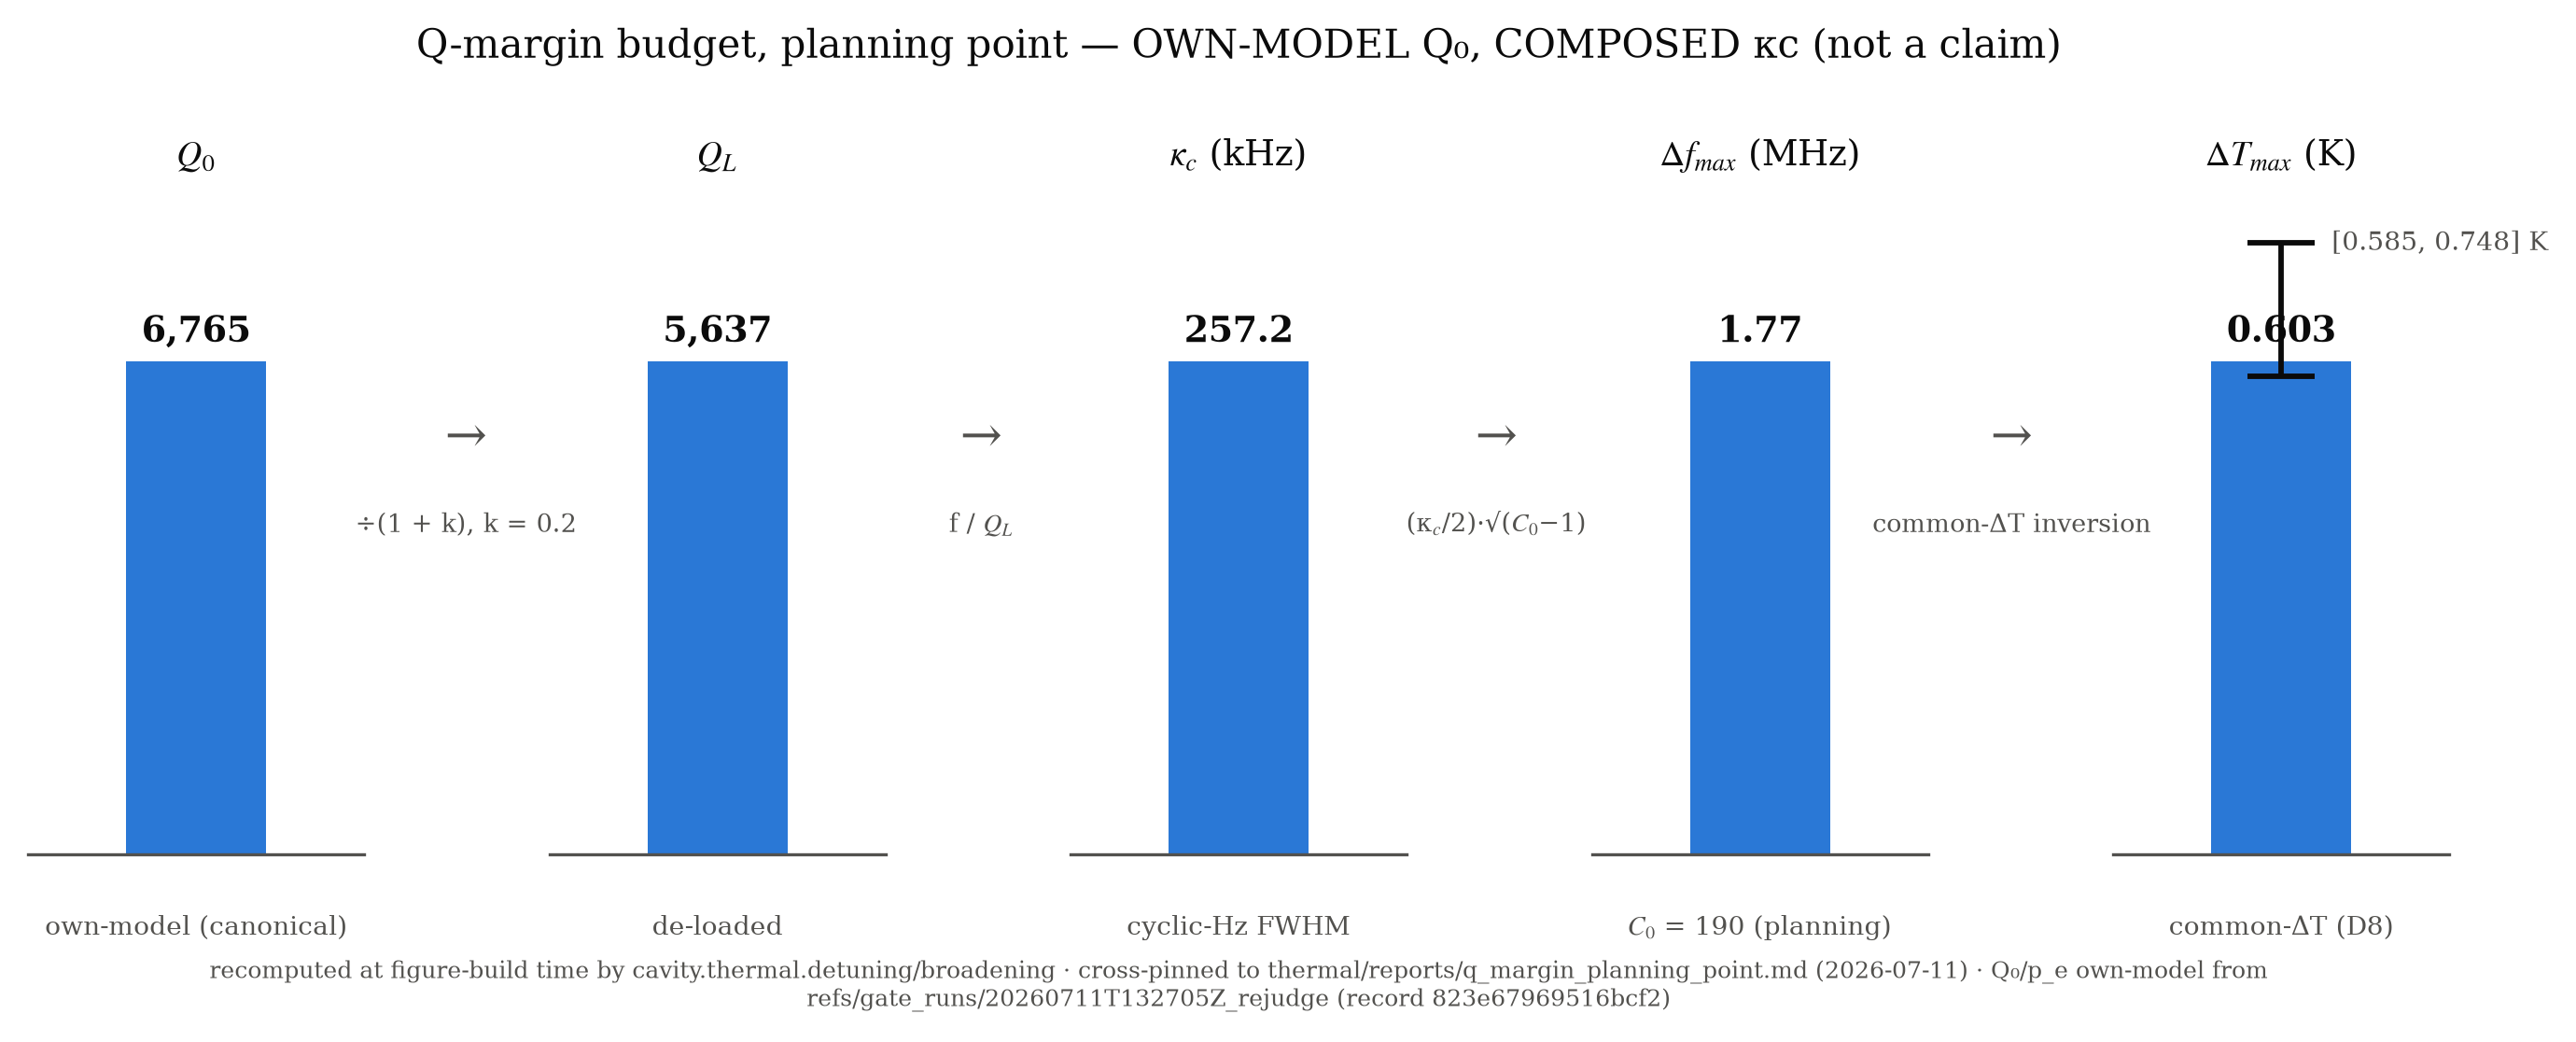
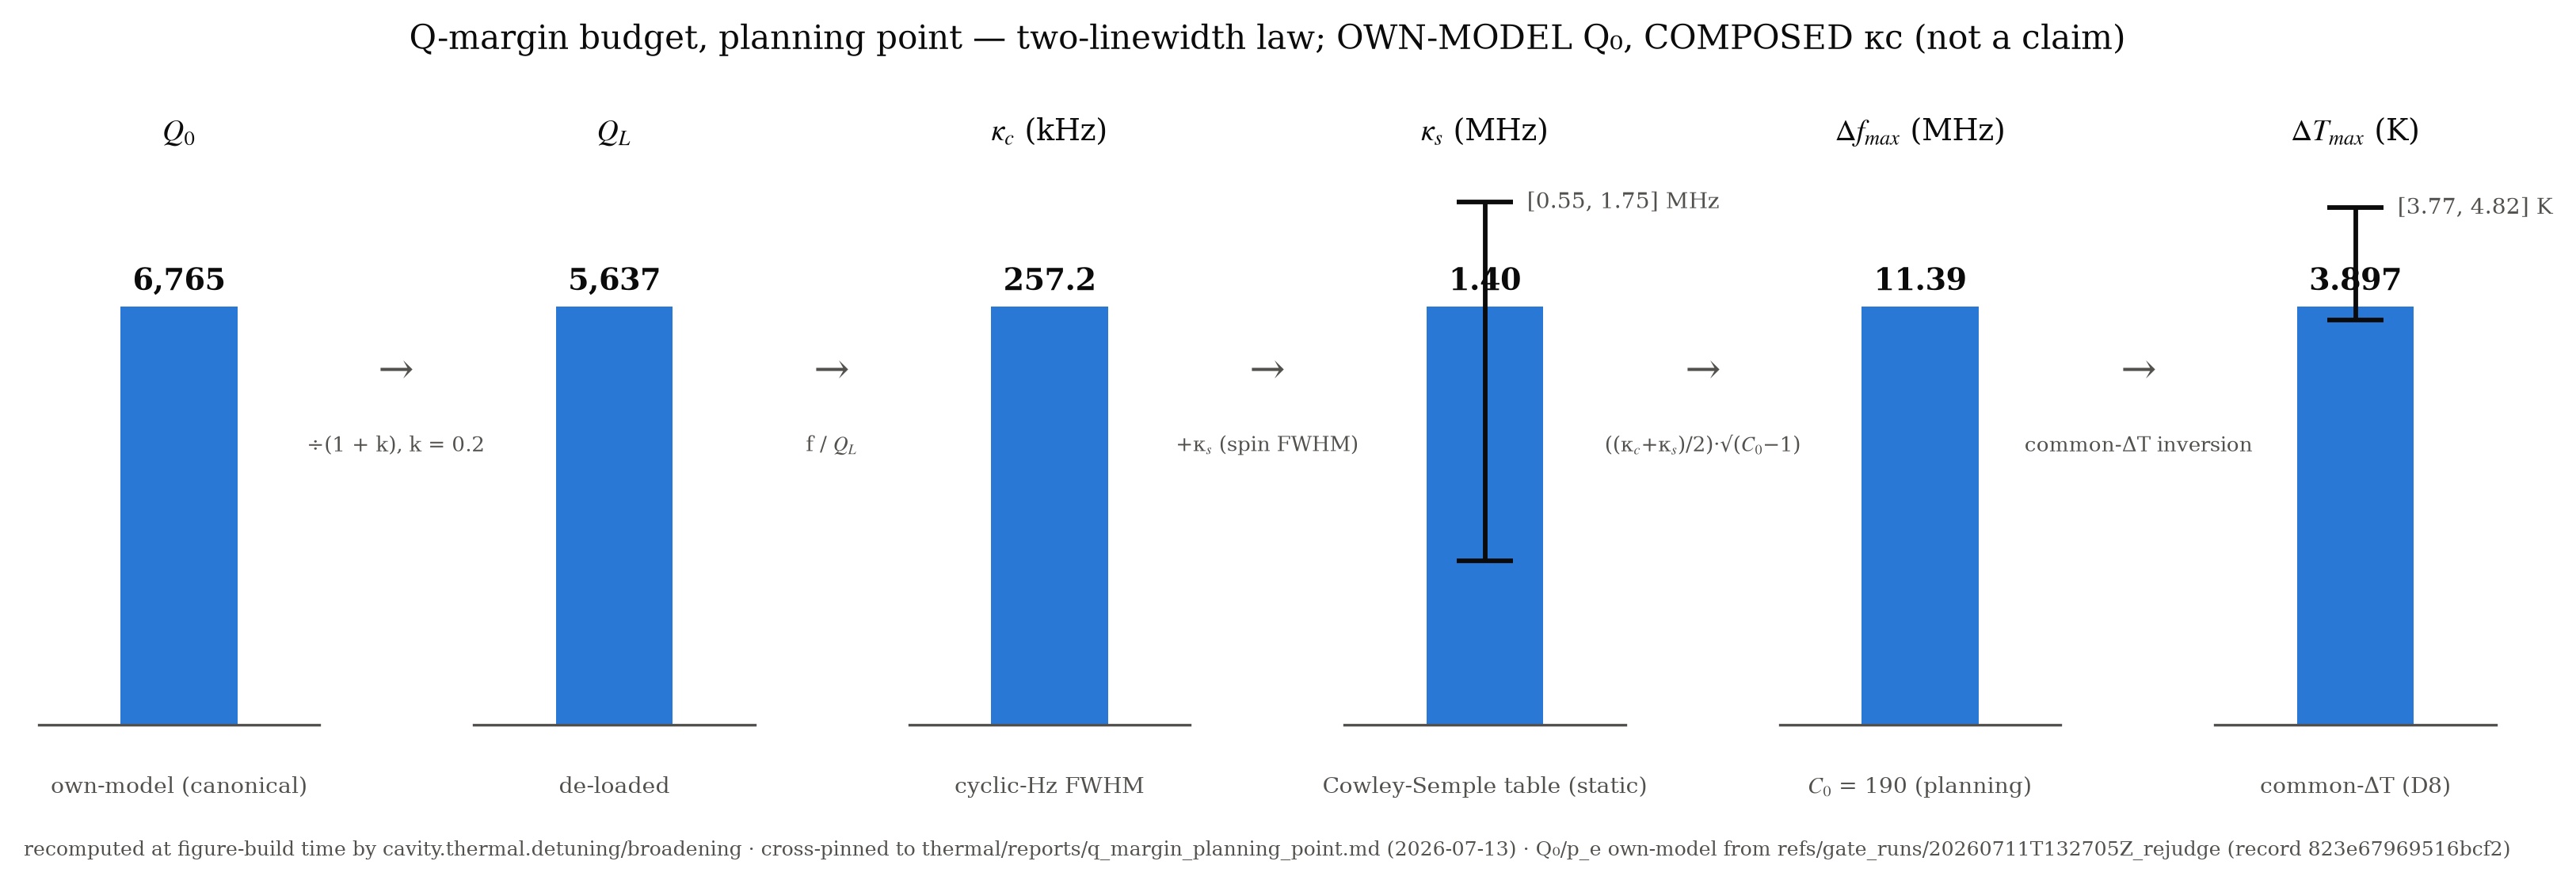
Regenerate margin report (two-linewidth planning point: 11.39 MHz / 3.90 K), mint turnover map, re-render F5

diff --git a/thermal/reports/q_margin_turnover.md b/thermal/reports/q_margin_turnover.md
@@ -1,0 +1,60 @@
+# SPEC §7.T4 — Q-margin turnover map (2026-07-13)
+
+**Status: deterministic two-linewidth turnover map — the new §7.T4 object replacing the bare -1/2 exponent.** Regenerate with `python -m cavity.thermal.report_turnover`.
+
+## Parameters
+
+- f = 1.45 GHz (`TARGET.f_design_hz`).
+- Q0 = 6764.5852 (OWN-MODEL canonical branch, re-based §5a record `refs/gate_runs/20260711T132705Z_rejudge/`, record hash `823e67969516bcf2`).
+- Q_L = Q0/(1 + k) = 5637.1544.
+- kappa_c = f/Q_L = 257.222 kHz (CYCLIC-Hz FWHM).
+- kappa_s = 1.400 MHz (`KAPPA_S`, CYCLIC-Hz FWHM; band [0.550, 1.750] MHz).
+- c = PLANNING_C0/Q_L = 0.033704949, calibrated so C0 = 190 at the planning Q_L.
+
+## Derivation summary (2026-07-13)
+
+- Eigenvalue threshold: C0 = 1 + 4*Delta^2/(kappa_c+kappa_s)^2.
+- Pulled frequency: omega = (kappa_c*omega_s + kappa_s*omega_c)/(kappa_c+kappa_s).
+- Threshold margin: Delta_f_max = ((kappa_c+kappa_s)/2)*sqrt(C0-1).
+- Fixed-G, fixed-kappa_s exponent under kappa_c = f/Q_L and C0 = c*Q_L: E = -kappa_c/(kappa_c+kappa_s) + C0/(2*(C0-1)).
+- Turnover: Q_L^2 - (f/kappa_s)*Q_L + 2*(f/kappa_s)/c = 0; real roots exist iff C0 evaluated at kappa_c = kappa_s is >= 8.
+
+## Q_L map
+
+| Q_L | kappa_c/kappa_s | C0 = c*Q_L | Delta_f_max (MHz) | E |
+|---:|---:|---:|---:|---:|
+| 32.0000 | 32.366071 | 1.078558 | 6.5464 | +5.8947 |
+| 56.0000 | 18.494898 | 1.887477 | 12.8558 | +0.1147 |
+| 100.0000 | 10.357143 | 3.370495 | 12.2401 | -0.2010 |
+| 178.0000 | 5.818620 | 5.999481 | 10.6723 | -0.2533 |
+| 316.0000 | 3.277577 | 10.650764 | 9.3020 | -0.2144 |
+| 562.0000 | 1.842908 | 18.942181 | 8.4294 | -0.1204 |
+| 1000.0000 | 1.035714 | 33.704949 | 8.1493 | +0.0065 |
+| 1778.0000 | 0.582516 | 59.927399 | 8.5036 | +0.1404 |
+| 3162.0000 | 0.327550 | 106.575049 | 9.5484 | +0.2580 |
+| 5637.1544 | 0.183730 | 190.000000 | 11.3915 | +0.3474 |
+| 10000.0000 | 0.103571 | 337.049489 | 14.1612 | +0.4076 |
+| 31623.0000 | 0.032752 | 1065.851601 | 23.5906 | +0.4688 |
+| 100000.0000 | 0.010357 | 3370.494895 | 41.0540 | +0.4899 |
+| 1000000.0000 | 0.001036 | 33704.948946 | 128.6435 | +0.4990 |
+
+Rows with C0 <= 1 are below threshold and print an em-dash for Delta_f_max and E.
+
+## Crossings
+
+- Closed-form roots (4 s.f.): Q_- = 63.19, Q_+ = 972.5.
+- Large-C0 reference: f/kappa_s = 1036.
+- Existence condition: C0 at kappa_c = kappa_s is 34.9087 >= 8, so both roots are real.
+- Operating point: Q_L = 5637.1544, E = +0.3474, kappa_c/kappa_s = 0.184; far side of the turnover - the committed -1/2 scaling's regime is kappa_c >> kappa_s.
+
+## kappa_s-band sensitivity
+
+- kappa_s = 0.550 MHz: Q_- = 23.52, Q_+ = 2613 (fixed-G rescaling of c).
+- kappa_s = 1.750 MHz: Q_- = 82.36, Q_+ = 746.2 (fixed-G rescaling of c).
+
+## Status notes
+
+- SPEC §7.T4 rung: the Q-margin QUESTION is supervisor-endorsed (Oxborrow-verbal 2026-07-06); the RESULT is unratified — these are budget maps and a planning point, not the joint C0/kappa_c DOF derivation (Layer A; SPEC §11 item 9).
+- FIXED-G vs C0-IMPORT: this map varies Q_L at fixed G and kappa_s (C0 = c*Q_L); the planning-point report imports C0 = 190 directly. The joint C0/kappa_c/kappa_s dependence on the geometry DOFs is Layer A (SPEC section 11 item 9) - not derived here.
+- SIGN-INVERSION FINDING (derived 2026-07-13, UNRATIFIED - needs supervisor ratification before headline use): at the operating point the Q-margin exponent is ~ +0.35, not -1/2; the committed 1/sqrt(Q) law is the kappa_s -> 0 limit.
+- KAPPA_S is the static, T-independent planning branch; thermal kappa_s(Delta_T) feedback remains outside this turnover map.

diff --git a/thermal/reports/q_margin_planning_point.md b/thermal/reports/q_margin_planning_point.md
@@ -1,11 +1,14 @@
-# SPEC §7.T4 — Q-margin planning point (2026-07-11)
+# SPEC §7.T4 — Q-margin planning point (2026-07-13)
 
 **Status: planning-point evaluation of the §7.T4 budget maps (`cavity.thermal.detuning`) — NOT a claim.** Regenerate with `python -m cavity.thermal.report_margin`; pinned byte-for-byte in `tests/test_thermal_detuning.py`.
 
 ## Status notes
 
 - SPEC §7.T4 rung: the Q-margin QUESTION is supervisor-endorsed (Oxborrow-verbal 2026-07-06); the RESULT is unratified — these are budget maps and a planning point, not the joint C0/kappa_c DOF derivation (Layer A; SPEC §11 item 9).
-- OWN-MODEL Q0, COMPOSED kappa_c (re-based 2026-07-11, superseding the cross-build composite): Q0 = 6764.59 is the OWN-MODEL canonical-branch walls-on finest value from the re-based §5a record (`refs/gate_runs/20260711T132705Z_rejudge/`, record hash `823e67969516bcf2`) — the SPEC §2 model Phase 2 runs. BRANCH ATTRIBUTION (amendment wording): gate-passage is established on the FAITHFUL branch (tan_delta = BOOTH_MPH_TAN_DELTA, Q0 = 6981.32, +0.02% vs Booth's 6,980); the canonical Q0 has NOT itself passed the Booth window (branch delta -3.10% as measured). kappa_c stays COMPOSED: own-model Q0 x Breeze's k = 0.2 (Breeze 2017; Booth p. 8 uses unloaded Q throughout and states no coupling; Wu's coupling unstated, SPEC §11 item 3) — the resulting Δf_max ≈ 1.77 MHz is NOT fully own-model and must not be quoted as a measured margin.
+- TWO-LINEWIDTH LAW (re-derived 2026-07-13, the steady-crossing-linewidths pass): Δf_max = ((kappa_c + kappa_s)/2)·sqrt(C0 − 1) — the linearised two-mode threshold with frequency pulling (oscillation at the linewidth-weighted mean); the previously committed (kappa_c/2)·sqrt(C0 − 1) is its kappa_s -> 0 limit and understated the margin x6.4 here. At this operating point kappa_c/kappa_s ≈ 0.18 — the far side of the kappa_c ≈ kappa_s turnover — so the §7.T4 1/sqrt(Q) hypothesis INVERTS SIGN: the Q-margin exponent is ≈ +0.35, not −1/2 (`thermal/reports/q_margin_turnover.md`). FINDING UNRATIFIED — needs Oxborrow before headline use (findings note drafted, not sent).
+- OWN-MODEL Q0, COMPOSED kappa_c (re-based 2026-07-11, superseding the cross-build composite): Q0 = 6764.59 is the OWN-MODEL canonical-branch walls-on finest value from the re-based §5a record (`refs/gate_runs/20260711T132705Z_rejudge/`, record hash `823e67969516bcf2`) — the SPEC §2 model Phase 2 runs. BRANCH ATTRIBUTION (amendment wording): gate-passage is established on the FAITHFUL branch (tan_delta = BOOTH_MPH_TAN_DELTA, Q0 = 6981.32, +0.02% vs Booth's 6,980); the canonical Q0 has NOT itself passed the Booth window (branch delta -3.10% as measured). kappa_c stays COMPOSED: own-model Q0 x Breeze's k = 0.2 (Breeze 2017; Booth p. 8 uses unloaded Q throughout and states no coupling; Wu's coupling unstated, SPEC §11 item 3) — the resulting Δf_max ≈ 11.39 MHz is NOT fully own-model and must not be quoted as a measured margin.
+- kappa_s rung: the graded STATIC planning branch (`KAPPA_S`, provenance/constants.py) — Cowley-Semple linewidth table (scraped thread, 2026-06-26), 0.1% Pc-d14:PTP-d14 branch choice; band [0.550, 1.750] MHz spans the Pc:PTP host rows only. Caveats carried: best-per-host at differing MW/laser powers — NOT a controlled comparison; the ODMR FWHM folds homogeneous + inhomogeneous + power broadening into one number (the single-packet mapping is a threshold-model assumption); the maser crystal itself (0.053% protonated) matches no table row. kappa_s is temperature-dependent in reality — the kappa_s(ΔT) feedback via `cavity.thermal.broadening` is the flagged follow-on, NOT implemented.
+- C0-IMPORT CONVENTION: C0 = 190 is imported as the resonant cooperativity and NOT recomputed from kappa_s (no G^2 exists — Phase 1b). Direction of bias (ratified amendment C): sweeping kappa_s at fixed imported C0 holds G^2/kappa_c fixed; at fixed G the growth is ~sqrt(kappa_s), so the kappa_s-hi edge of the Δf_max band below is OVERSTATED under the import convention — the band is not convention-independent. At fixed imported C0, SMALLER kappa_s is the conservative side (the superseded kappa_s -> 0 law was the maximally conservative member).
 - §5a GATE (R5): the §5a benchmark is PASSED as re-based 2026-07-11 (5 pass / 0 fail / 1 deferred — SPEC §5a finding: V window re-based on the 225/360-corrected Booth print, F_m tightened to ±1% consistency; tolerances unchanged). `phase1_complete` remains false on the deferred confinement row — §5a benchmark PASS is NOT phase completion, and Phase 2 claim levels still gate on §7.T5.
 - LAYER-A BOUNDARY: the joint C0/kappa_c dependence on the geometry DOFs (the §7.T4 headline requirement, SPEC §11 item 9) is NOT derived here — these are the per-draw maps and one composite point.
 - COMMON-DELTA-T TWO-ARMS CONVENTION (D8, planning assumption — proposed for the SPEC §11 item-10 bundle): both arms evaluated at the crystal's probe-weighted mean temperature rise because the crystal->STO thermal path is unmodelled (D7). Direction conservative — overstates detuning, understates ΔT_max/P_max; magnitude unmodelled; retires via D7 or a ruled ΔT_STO/ΔT_crystal ratio.
@@ -16,24 +19,27 @@
 - f = 1.45 GHz (`TARGET.f_design_hz`); T_base = 293 K (§6T window floor).
 - Q0 = 6764.5852 (OWN-MODEL, canonical branch — Booth Table 8's 6,980 is now the comparison anchor, not the input) -> Q_L = Q0/(1 + k) = 5637.15.
 - kappa_c = f/Q_L = 257.222 kHz — CYCLIC-Hz FWHM linewidth, never the angular 2*pi*f/Q_L (the provenance table's verified W20 angular-"Hz" trap; guarded in anchor A6).
+- kappa_s = 1.400 MHz - spin-line FWHM, CYCLIC Hz (`KAPPA_S`; Cowley-Semple linewidth table, 0.1% d14 branch; band [0.550, 1.750] MHz).
 - p_e = 0.9974999896719232 — OWN-MODEL walls-on canonical value at the Booth point from the re-based §5a record (record hash `823e67969516bcf2`); retires the 3.14 GHz PEC-anchor placeholder this report previously carried.
 
-## Δf_max = (kappa_c/2)·sqrt(C0 − 1)
+## Δf_max = ((kappa_c + kappa_s)/2)·sqrt(C0 − 1)
 
 | C0 (planning) | Δf_max (MHz) |
 |---|---|
-| 50 | 0.9003 |
-| 190 | 1.7681 |
-| 500 | 2.8730 |
+| 50 | 5.8003 |
+| 190 | 11.3915 |
+| 500 | 18.5098 |
 
 C0 = 190 is the SPEC revision-note planning value ("Breeze's build runs C ~ 190") — never a measured constant (provenance table: N assumed, g_s derived, kappa_s fitted). The sqrt(C0 − 1) insensitivity is the point of the bracket rows: x10 in C0 moves Δf_max by ~x3.2.
+- kappa_s band on Δf_max at C0 = 190: [5.5487, 13.7974] MHz (linear in kappa_s).
 
 ## ΔT_max at C0 = 190
 
-- Adopted map (integrated-CW cavity arm + linear spin arm, common-ΔT convention D8): **ΔT_max = 0.6030 K**.
-- Band across the §6T coefficient bands (linear arithmetic — the sub-K regime): [0.585, 0.748] K.
-- Committed-point-slope companion (`cavity_df_dt_hz_per_k(293)`·p_e + |df_spin/dT|): 0.5919 K — the documented <=2% eps_r-mixing branch between the self-consistent-CW map and the canonical-eps_r point function (detuning.py docstring; anchor C3).
-- Nonlinearity at this scale is negligible (<0.1%): the integrated form earns its keep across the ruled 30 K envelope (anchor A10: +0.7% vs the 300 K point slope x 30, +6.6% vs the first-order integral of the committed slope, -4.6% vs the 293 K slope x 30), not at the sub-K budget point.
+- Adopted map (integrated-CW cavity arm + linear spin arm, common-ΔT convention D8): **ΔT_max = 3.8969 K**.
+- Band across the §6T coefficient bands (linear arithmetic, at point-kappa_s): [3.772, 4.819] K.
+- Combined kappa_s x coefficient outer envelope: [1.837, 5.836] K (kappa_s-lo x coefficient-hi ... kappa_s-hi x coefficient-lo).
+- Committed-point-slope companion (`cavity_df_dt_hz_per_k(293)`·p_e + |df_spin/dT|): 3.8134 K — the documented <=2% eps_r-mixing branch between the self-consistent-CW map and the canonical-eps_r point function (detuning.py docstring; anchor C3).
+- Linear band arithmetic retained as the band convention; the true-inversion vs pure-CW-linear discrepancy at this O(4 K) scale is 0.37% (was <0.1% in the superseded sub-K regime), invisible against the kappa_s-band and coefficient-band systematics. Envelope-scale context unchanged (anchor A10).
 - Reproduces the revision-note margin story ("order ~0.5 K kills it") through committed functions instead of Wu-coefficient arithmetic.
 
 ## P_max